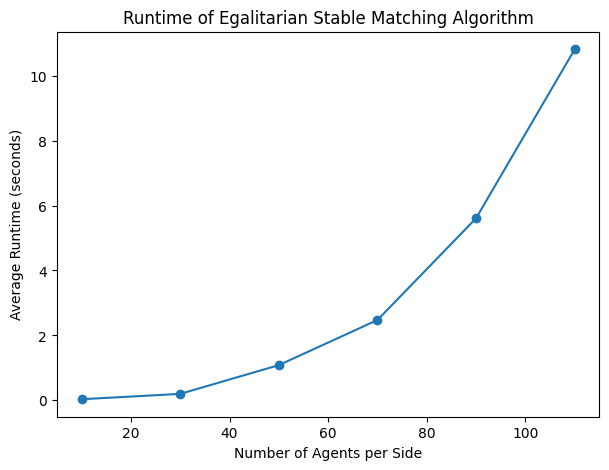
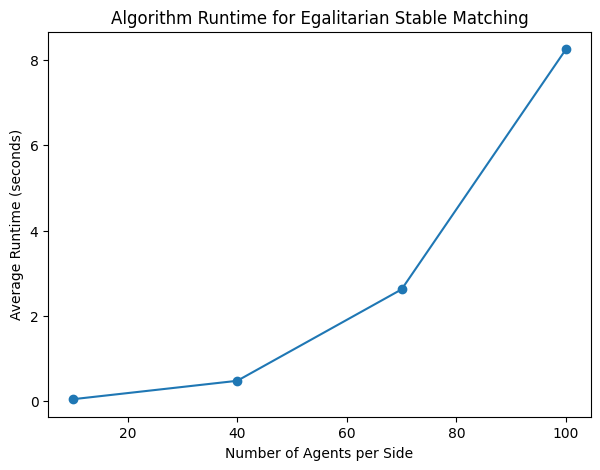
readme updated for runtime results

diff --git a/matching_algorithms/main.py b/matching_algorithms/main.py
@@ -744,7 +744,7 @@ def generate_instance(num_agents, num_schools=None, is_marriage_market=True, is_
     side1_preferences = {}
     for agent in side1:
         if is_cardinal:
-            side1_preferences[agent] = {partner: random.uniform(0, 100) for partner in side2}
+            side1_preferences[agent] = {partner: random.uniform(1, 100) for partner in side2}
         else:
             side1_preferences[agent] = random.sample(side2, len(side2))
     

diff --git a/README.md b/README.md
@@ -557,12 +557,10 @@ The algorithm is implemented in Python using the PuLP library for linear program
 
 | Number of Agents per Side | Average Runtime (seconds) |
 |---------------------------|---------------------------|
-| 10                        | 0.034372                  |
-| 30                        | 0.196681                  |
-| 50                        | 0.880134                  |
-| 70                        | 2.394112                  |
-| 90                        | 5.392979                  |
-| 110                       | 10.799092                 |
+| 10                        | 0.037072                  |
+| 40                        | 0.493957                  |
+| 70                        | 2.998246                  |
+| 100                       | 10.351443                 |
 
 ![Runtime of Stable Matching LP Algorithm](images/stable_matching_lp.png)
 
@@ -655,12 +653,10 @@ The algorithm has been implemented in Python using the PuLP library for linear p
 
 | Number of Agents per Side | Average Runtime (seconds) |
 |---------------------------|---------------------------|
-| 10                        | 0.034664                  |
-| 30                        | 0.199403                  |
-| 50                        | 1.084773                  |
-| 70                        | 2.474764                  |
-| 90                        | 5.610019                  |
-| 110                       | 10.813405                 |
+| 10                        | 0.037443                  |
+| 40                        | 0.469973                  |
+| 70                        | 2.617627                  |
+| 100                       | 8.258007                  |
 
 ![Runtime of Egalitarian Stable Matching Algorithm](images/egalitarian_stable_matching.png)
 
@@ -753,7 +749,17 @@ The algorithm is implemented in Python using the PuLP library for linear program
 
 - `dict`: A dictionary representing the Nash stable matching, where keys are men and values are their matched women.
 
+## Runtime Table:
 
+
+| Number of Agents per Side | Average Runtime (seconds) |
+|---------------------------|---------------------------|
+| 10                        | 0.034171                  |
+| 40                        | 0.416633                  |
+| 70                        | 1.799205                  |
+| 100                       | 5.155402                  |
+
+![Runtime of Nash Stable Matching Algorithm](images/nash_stable_matching.png)
 
 ## Usage
 ```python
@@ -841,7 +847,17 @@ The algorithm has been implemented in Python using the PuLP library for linear p
 - dict
   - A dictionary representing the utilitarian stable matching, where keys are men and values are their matched women.
   - Example: `{'M1': 'W1', 'M2': 'W2'}`
-  
+
+## Runtime Table:
+
+| Number of Agents per Side | Average Runtime (seconds) |
+|---------------------------|---------------------------|
+| 10                        | 0.034295                  |
+| 40                        | 0.371985                  |
+| 70                        | 1.791714                  |
+| 100                       | 5.238294                  |
+
+![Runtime of Utilitarian Stable Matching Algorithm](images/utilitarian_stable_matching.png)
 
 ## Usage
 ```python
